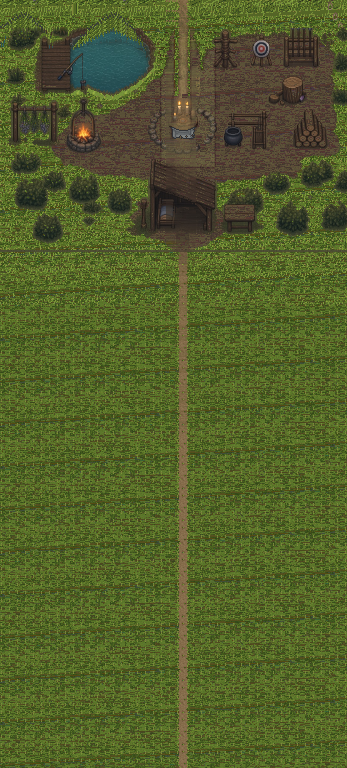
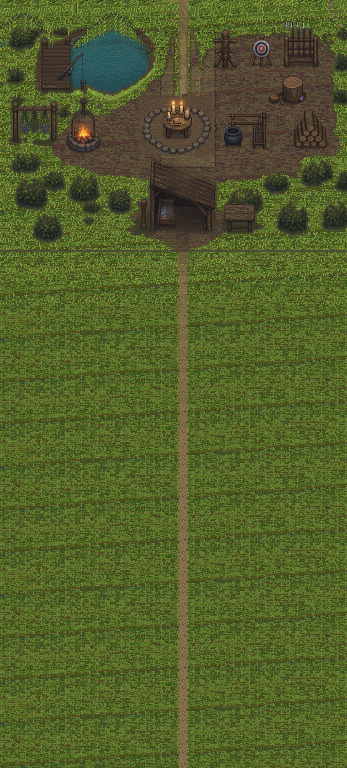
Restore the original altar and the missing spear tips from the camp plate.

Changed region(s): [[0.4035, 0.125, 0.6052, 0.2188]]

diff --git a/src/game/assets.ts b/src/game/assets.ts
@@ -1,5 +1,5 @@
 /** Bump this when the pictures change so phones and computers drop the old files. */
-export const ART = "20260928i";
+export const ART = "20260928j";
 
 function art(path: string): string {
   return `${path}?v=${ART}`;
